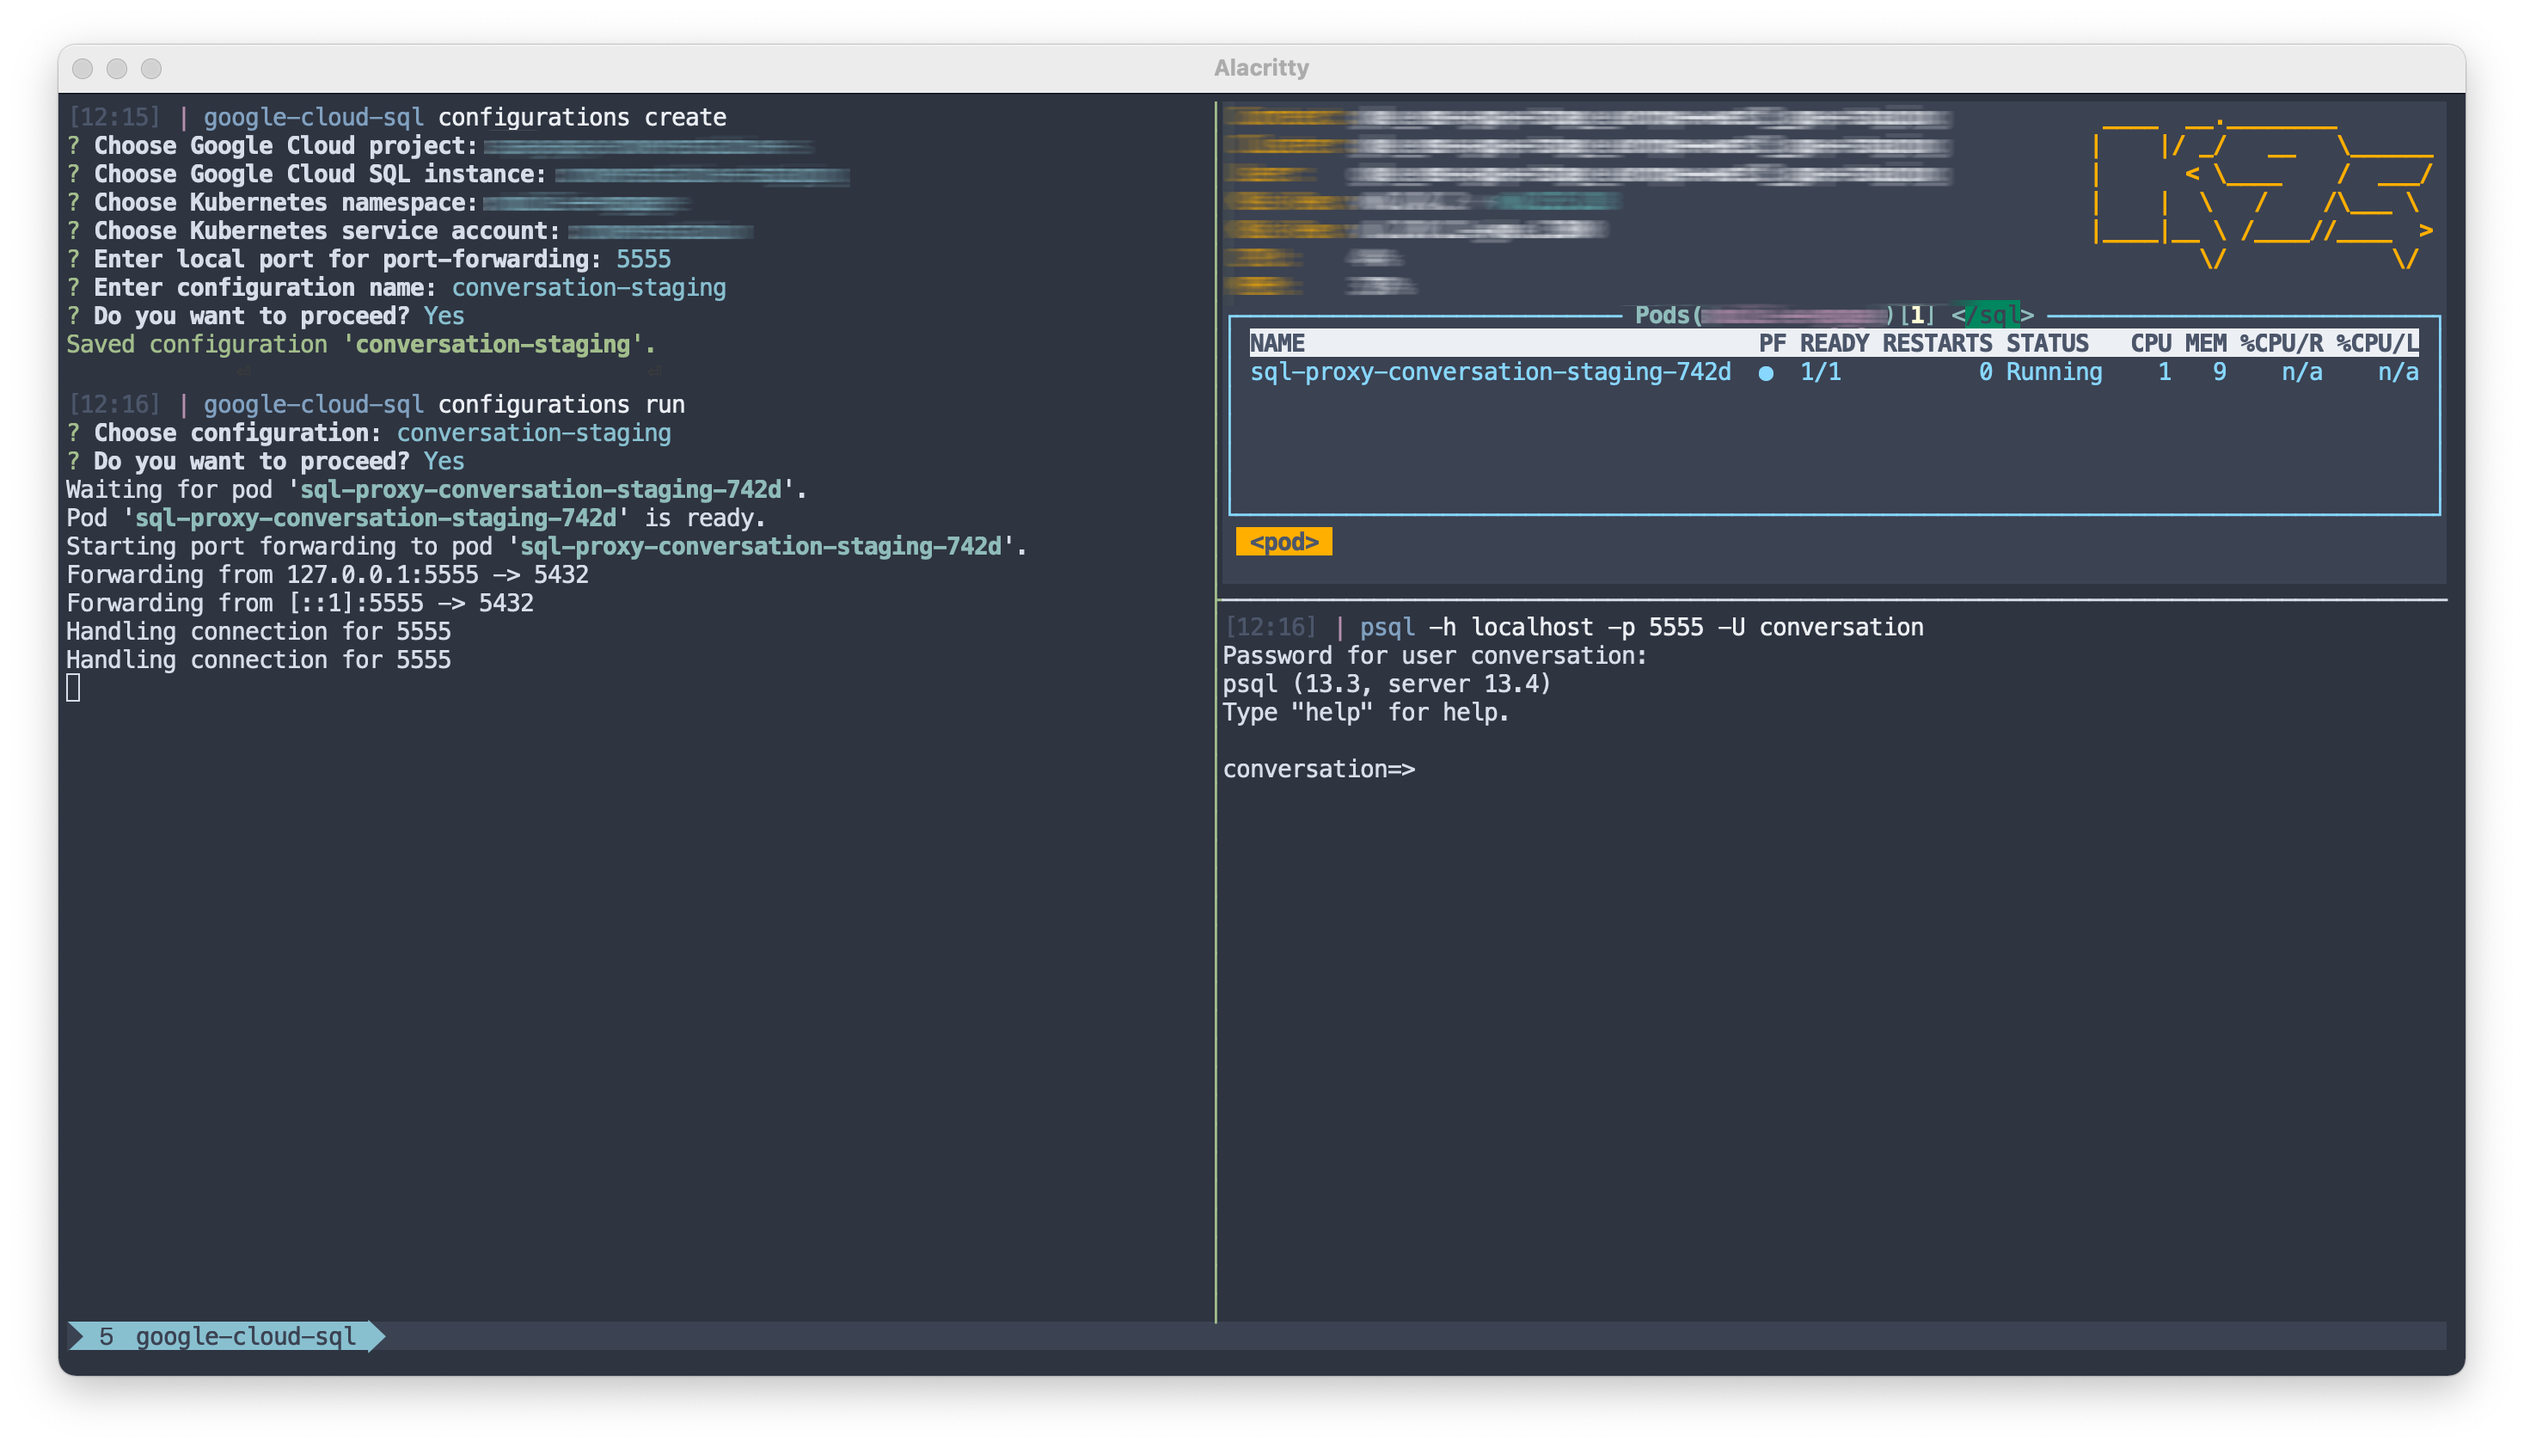
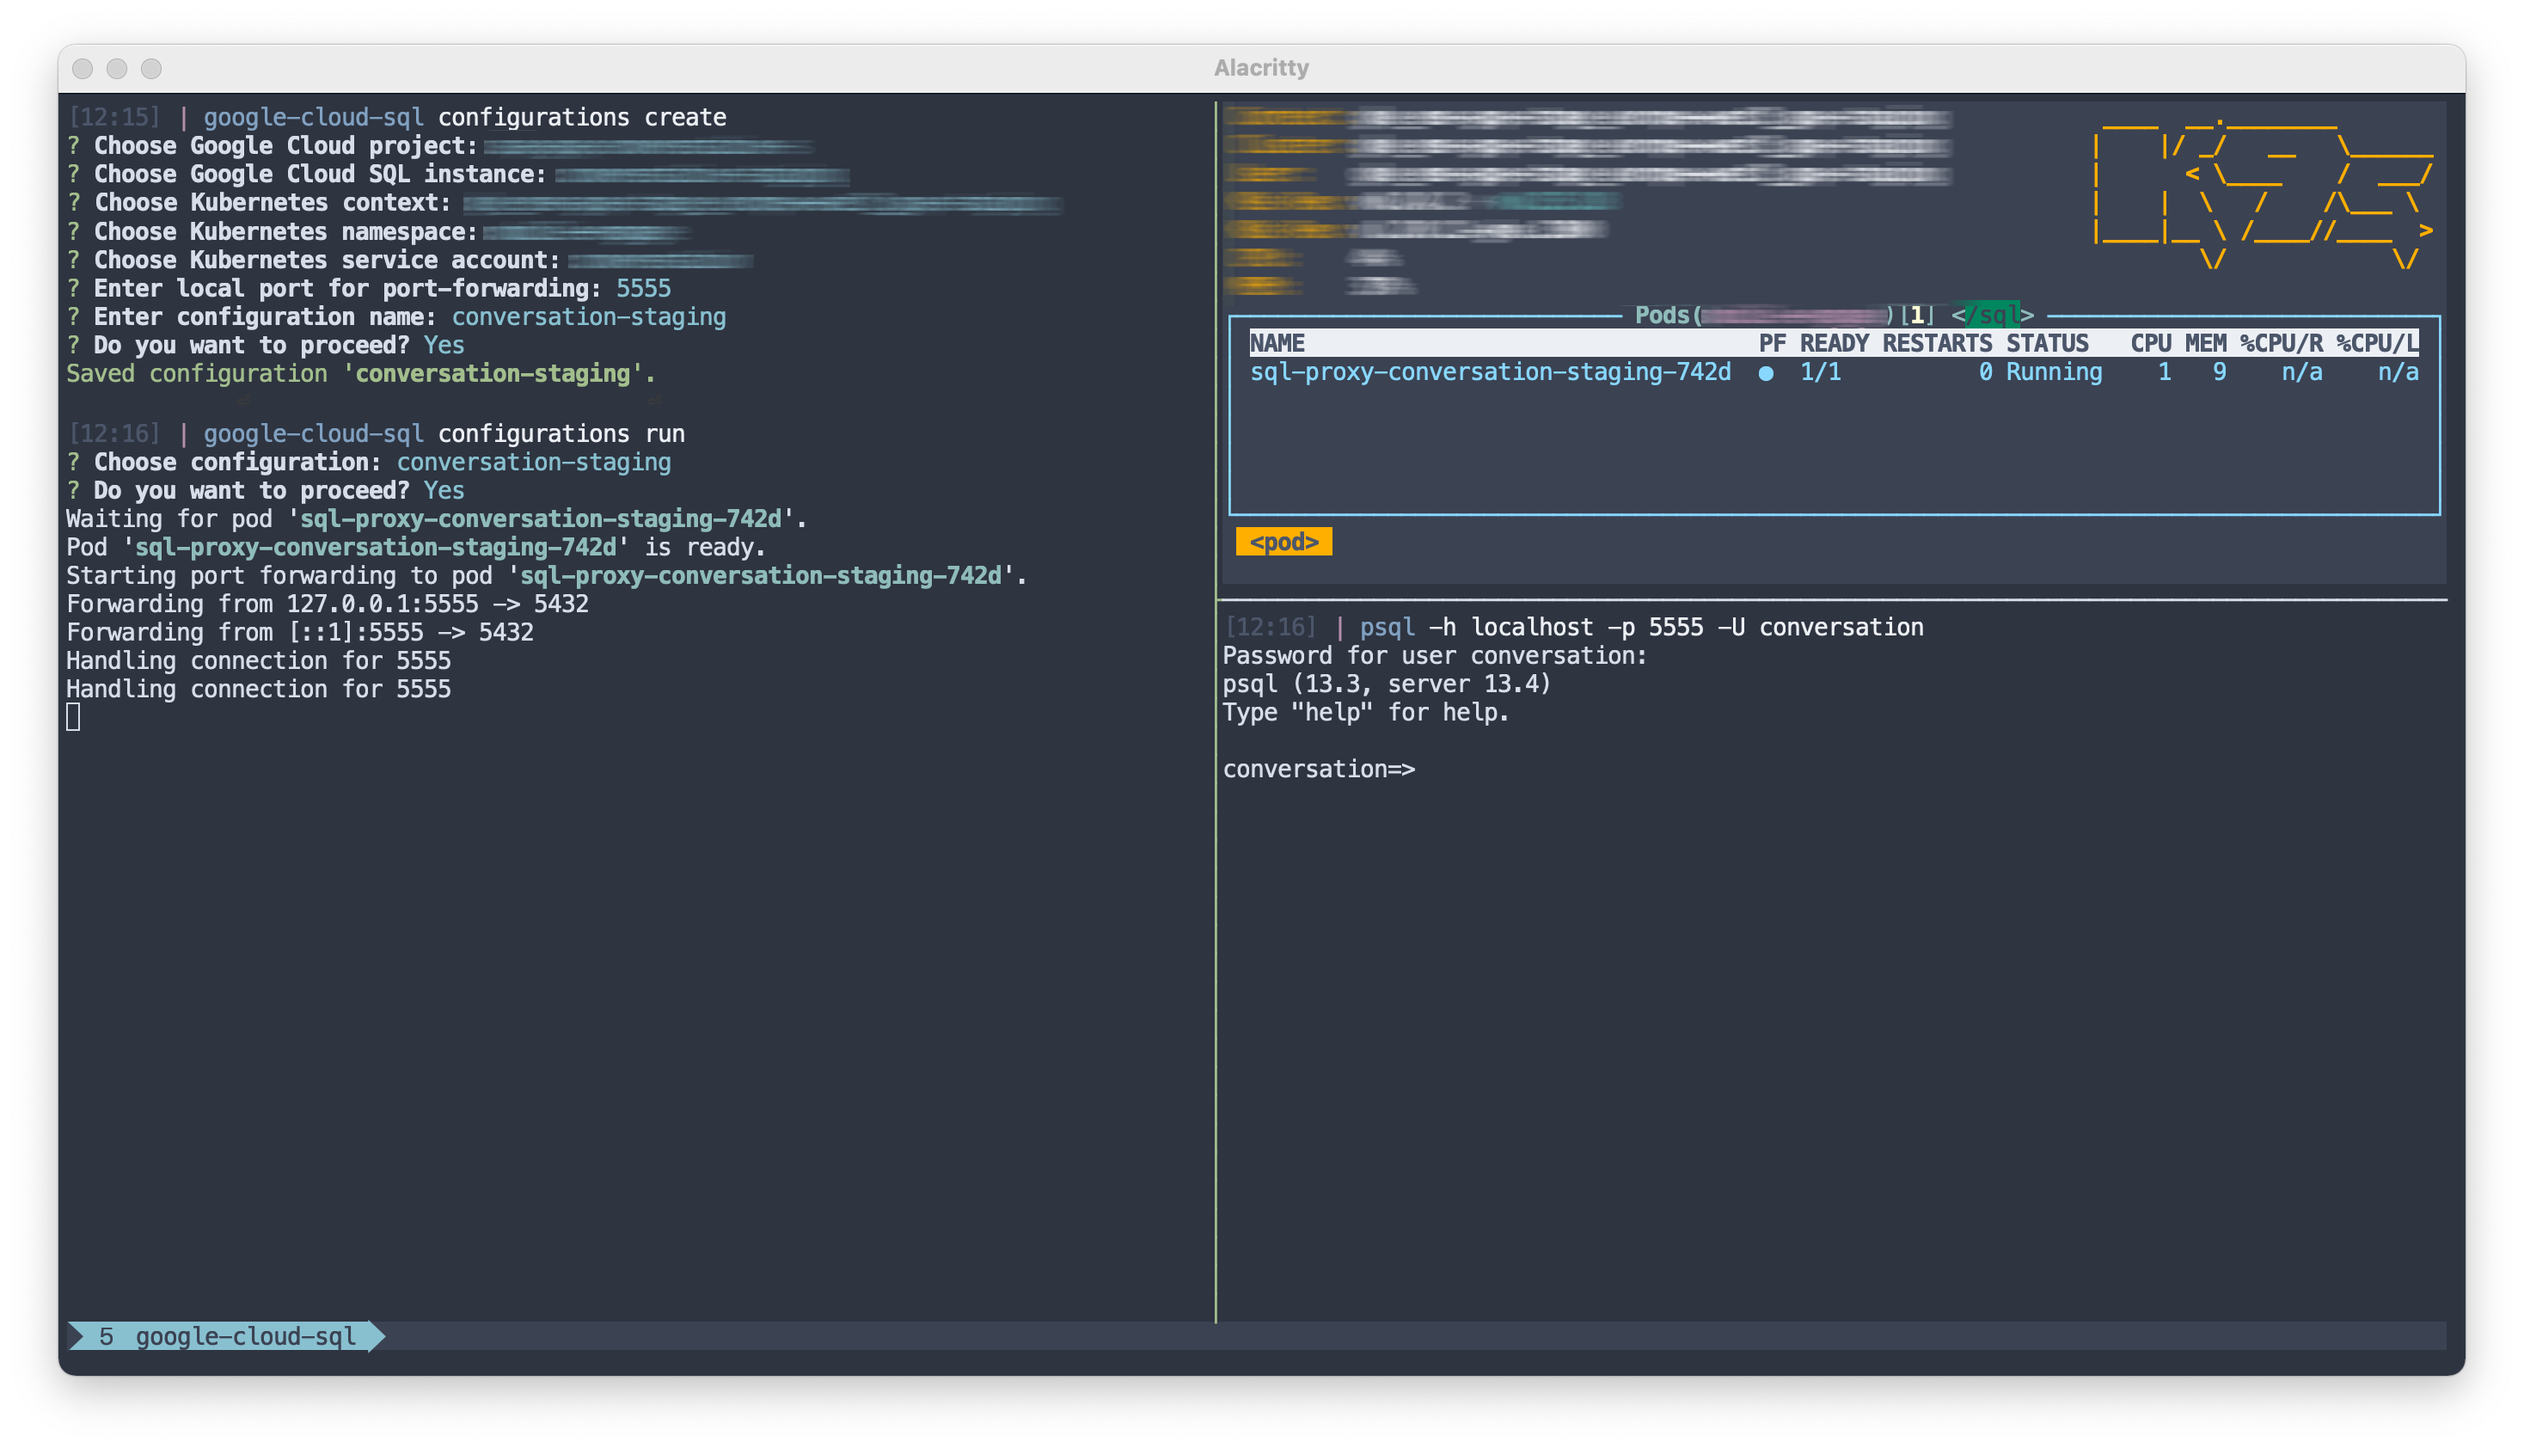
feat: support kubectl contexts

Changed region(s): [[0.031, 0.1235, 0.4339, 0.4941]]

diff --git a/src/lib/kubectl/pods.ts b/src/lib/kubectl/pods.ts
@@ -3,6 +3,7 @@ import { execCommand, execCommandAttached } from '../util/exec'
 
 type CloudSqlProxyPod = {
   name: string
+  context: string
   namespace: string
   serviceAccount: string
   instance: string
@@ -14,7 +15,8 @@ export const runCloudSqlProxyPod = (pod: CloudSqlProxyPod): string => {
   return execCommand(`
     kubectl run \
       --image=gcr.io/cloudsql-docker/gce-proxy \
-      --namespace ${pod.namespace} \
+      --context="${pod.context}" \
+      --namespace="${pod.namespace}" \
       --serviceaccount=${pod.serviceAccount} \
       --labels=app=google-cloud-sql \
       ${pod.name} \
@@ -22,28 +24,32 @@ export const runCloudSqlProxyPod = (pod: CloudSqlProxyPod): string => {
   `)
 }
 
-export const deletePod = (pod: string, namespace: string) => {
-  console.log(`Deleting pod '${bold(cyan(pod))}'.`)
+export const deletePod = (pod: CloudSqlProxyPod) => {
+  console.log(`Deleting pod '${bold(cyan(pod.name))}'.`)
   execCommand(`
-    kubectl delete pod ${pod} --namespace=${namespace}
+    kubectl delete pod ${pod.name} \
+      --context="${pod.context}" \
+      --namespace="${pod.namespace}"
   `)
-  console.log(`Pod '${bold(cyan(pod))}' deleted.`)
+  console.log(`Pod '${bold(cyan(pod.name))}' deleted.`)
 }
 
-export const waitForPodReady = (pod: string, namespace: string) => {
-  console.log(`Waiting for pod '${bold(cyan(pod))}'.`)
+export const waitForPodReady = (pod: CloudSqlProxyPod) => {
+  console.log(`Waiting for pod '${bold(cyan(pod.name))}'.`)
   execCommand(`
-    kubectl wait pod ${pod} \
+    kubectl wait pod ${pod.name} \
       --for=condition=ready \
-      --namespace=${namespace}
+      --context="${pod.context}" \
+      --namespace="${pod.namespace}"
   `)
-  console.log(`Pod '${bold(cyan(pod))}' is ready.`)
+  console.log(`Pod '${bold(cyan(pod.name))}' is ready.`)
 }
 
 export const portForward = (pod: CloudSqlProxyPod) => {
   console.log(`Starting port forwarding to pod '${bold(cyan(pod.name))}'.`)
   execCommandAttached(`
     kubectl port-forward ${pod.name} ${pod.localPort}:${pod.remotePort} \
-      --namespace=${pod.namespace}
+      --context="${pod.context}" \
+      --namespace="${pod.namespace}"
   `)
 }

diff --git a/src/commands/configurations/create.ts b/src/commands/configurations/create.ts
@@ -1,4 +1,4 @@
-import { green, red, bold } from 'chalk'
+import { bold, green, red } from 'chalk'
 import inquirer from 'inquirer'
 import autocomplete from 'inquirer-autocomplete-prompt'
 import { saveConfiguration } from '../../lib/configurations'
@@ -6,9 +6,10 @@ import { ConfigurationCreateAnswers } from '../../lib/types'
 import { configurationNamePrompt } from './prompts/configuration-name'
 import { confirmationPrompt } from './prompts/confirmation'
 import { googleCloudProjectPrompt } from './prompts/google-cloud-project'
-import { googleCloudSqlInstancePrompt } from './prompts/google-cloud-sql-instances'
+import { googleCloudSqlInstancePrompt } from './prompts/google-cloud-sql-instance'
+import { kubernetesContextPrompt } from './prompts/kubernetes-context'
 import { kubernetesNamespacePrompt } from './prompts/kubernetes-namespace'
-import { kubernetesServiceAccountPrompt } from './prompts/kubernetes-service-accounts'
+import { kubernetesServiceAccountPrompt } from './prompts/kubernetes-service-account'
 import { localPortPrompt } from './prompts/local-port'
 
 export const createConfiguration = async () => {
@@ -17,6 +18,7 @@ export const createConfiguration = async () => {
   const answers = await inquirer.prompt<ConfigurationCreateAnswers>([
     googleCloudProjectPrompt,
     googleCloudSqlInstancePrompt,
+    kubernetesContextPrompt,
     kubernetesNamespacePrompt,
     kubernetesServiceAccountPrompt,
     localPortPrompt,

diff --git a/src/lib/configurations/index.ts b/src/lib/configurations/index.ts
@@ -1,5 +1,6 @@
 import exitHook from 'exit-hook'
 import { omit } from 'lodash'
+import { useKubernetesContext } from '../kubectl/contexts'
 import {
   deletePod,
   portForward,
@@ -36,6 +37,7 @@ export const deleteConfiguration = (configuratioName: string): void => {
 export const execConfiguration = (configuration: Configuration) => {
   const pod = {
     name: `sql-proxy-${configuration.configurationName}-${randomString()}`,
+    context: configuration.kubernetesContext,
     namespace: configuration.kubernetesNamespace,
     serviceAccount: configuration.kubernetesServiceAccount,
     instance: configuration.googleCloudSqlInstance.connectionName,
@@ -44,10 +46,10 @@ export const execConfiguration = (configuration: Configuration) => {
   }
 
   exitHook(() => {
-    deletePod(pod.name, pod.namespace)
+    deletePod(pod)
   })
 
   runCloudSqlProxyPod(pod)
-  waitForPodReady(pod.name, pod.namespace)
+  waitForPodReady(pod)
   portForward(pod)
 }

diff --git a/src/lib/configurations/store.ts b/src/lib/configurations/store.ts
@@ -14,23 +14,16 @@ export const store = new Conf<Schema>({
       default: [],
       items: {
         type: 'object',
-        required: [
-          'configurationName',
-          'googleCloudSqlInstance',
-          'kubernetesNamespace',
-          'kubernetesServiceAccount',
-          'localPort',
-        ],
         properties: {
           configurationName: { type: 'string' },
           googleCloudSqlInstance: {
             type: 'object',
-            required: ['connectionName', 'port'],
             properties: {
               connectionName: { type: 'string' },
               port: { type: 'number' },
             },
           },
+          kubernetesContext: { type: 'string' },
           kubernetesNamespace: { type: 'string' },
           kubernetesServiceAccount: { type: 'string' },
           localPort: { type: 'number' },

diff --git a/src/lib/kubectl/contexts.ts b/src/lib/kubectl/contexts.ts
@@ -1,5 +1,20 @@
-import { execCommand } from '../util/exec'
+import { bold, cyan } from 'chalk'
+import memoize from 'memoizee'
+import { execCommand, execCommandMultiline } from '../util/exec'
 
-export function fetchCurrentContext(): string {
+export const fetchKubernetesCurrentContext = (): string => {
   return execCommand(`kubectl config current-context`)
+}
+
+export const fetchKubernetesContexts = memoize((): string[] => {
+  return execCommandMultiline(`
+    kubectl config get-contexts --output='name'
+  `)
+})
+
+export const useKubernetesContext = (context: string) => {
+  execCommand(`
+    kubectl config use-context "${context}"
+  `)
+  console.log(`Using Kubernetes context '${bold(cyan(context))}'.`)
 }

diff --git a/src/lib/kubectl/service-accounts.ts b/src/lib/kubectl/service-accounts.ts
@@ -1,10 +1,13 @@
 import memoize from 'memoizee'
 import { execCommandMultiline } from '../util/exec'
 
-export const fetchKubernetesServiceAccounts = memoize((namespace: string): string[] => {
-  return execCommandMultiline(`
+export const fetchKubernetesServiceAccounts = memoize(
+  (context: string, namespace: string): string[] => {
+    return execCommandMultiline(`
     kubectl get serviceaccounts \
-      --namespace ${namespace} \
+      --namespace="${namespace}" \
+      --context="${context}" \
       --output='jsonpath={range .items[*]}{.metadata.name}{"\\n"}{end}'
   `)
-})
+  }
+)

diff --git a/src/commands/configurations/prompts/kubernetes-context.ts b/src/commands/configurations/prompts/kubernetes-context.ts
@@ -1,0 +1,15 @@
+import { fetchKubernetesContexts } from '../../../lib/kubectl/contexts'
+import { ConfigurationCreateAnswers } from '../../../lib/types'
+import { search } from '../../../lib/util/search'
+
+const source = (answers: ConfigurationCreateAnswers, input?: string) => {
+  const instances = fetchKubernetesContexts()
+  return search(instances, input)
+}
+
+export const kubernetesContextPrompt = {
+  type: 'autocomplete',
+  name: 'kubernetesContext',
+  message: 'Choose Kubernetes context:',
+  source,
+}

diff --git a/src/commands/configurations/prompts/kubernetes-service-account.ts b/src/commands/configurations/prompts/kubernetes-service-account.ts
@@ -3,7 +3,10 @@ import { ConfigurationCreateAnswers } from '../../../lib/types'
 import { search } from '../../../lib/util/search'
 
 const source = (answers: ConfigurationCreateAnswers, input?: string) => {
-  const instances = fetchKubernetesServiceAccounts(answers.kubernetesNamespace)
+  const instances = fetchKubernetesServiceAccounts(
+    answers.kubernetesContext,
+    answers.kubernetesNamespace
+  )
   return search(instances, input)
 }
 

diff --git a/src/lib/kubectl/namespaces.ts b/src/lib/kubectl/namespaces.ts
@@ -1,9 +1,10 @@
 import memoize from 'memoizee'
 import { execCommandMultiline } from '../util/exec'
 
-export const fetchKubernetesNamespaces = memoize((): string[] => {
+export const fetchKubernetesNamespaces = memoize((context: string): string[] => {
   return execCommandMultiline(`
     kubectl get namespaces \
+      --context="${context}" \
       --output='jsonpath={range .items[*]}{.metadata.name}{"\\n"}{end}'
   `)
 })

diff --git a/src/commands/configurations/prompts/kubernetes-namespace.ts b/src/commands/configurations/prompts/kubernetes-namespace.ts
@@ -3,7 +3,7 @@ import { ConfigurationCreateAnswers } from '../../../lib/types'
 import { search } from '../../../lib/util/search'
 
 const source = (answers: ConfigurationCreateAnswers, input?: string) => {
-  const instances = fetchKubernetesNamespaces()
+  const instances = fetchKubernetesNamespaces(answers.kubernetesContext)
   return search(instances, input)
 }
 

diff --git a/src/lib/types.ts b/src/lib/types.ts
@@ -3,6 +3,7 @@ import { GoogleCloudSqlInstance } from './gcloud/sql-instances'
 export type Configuration = {
   configurationName: string
   googleCloudSqlInstance: Pick<GoogleCloudSqlInstance, 'connectionName' | 'port'>
+  kubernetesContext: string
   kubernetesNamespace: string
   kubernetesServiceAccount: string
   localPort: number
